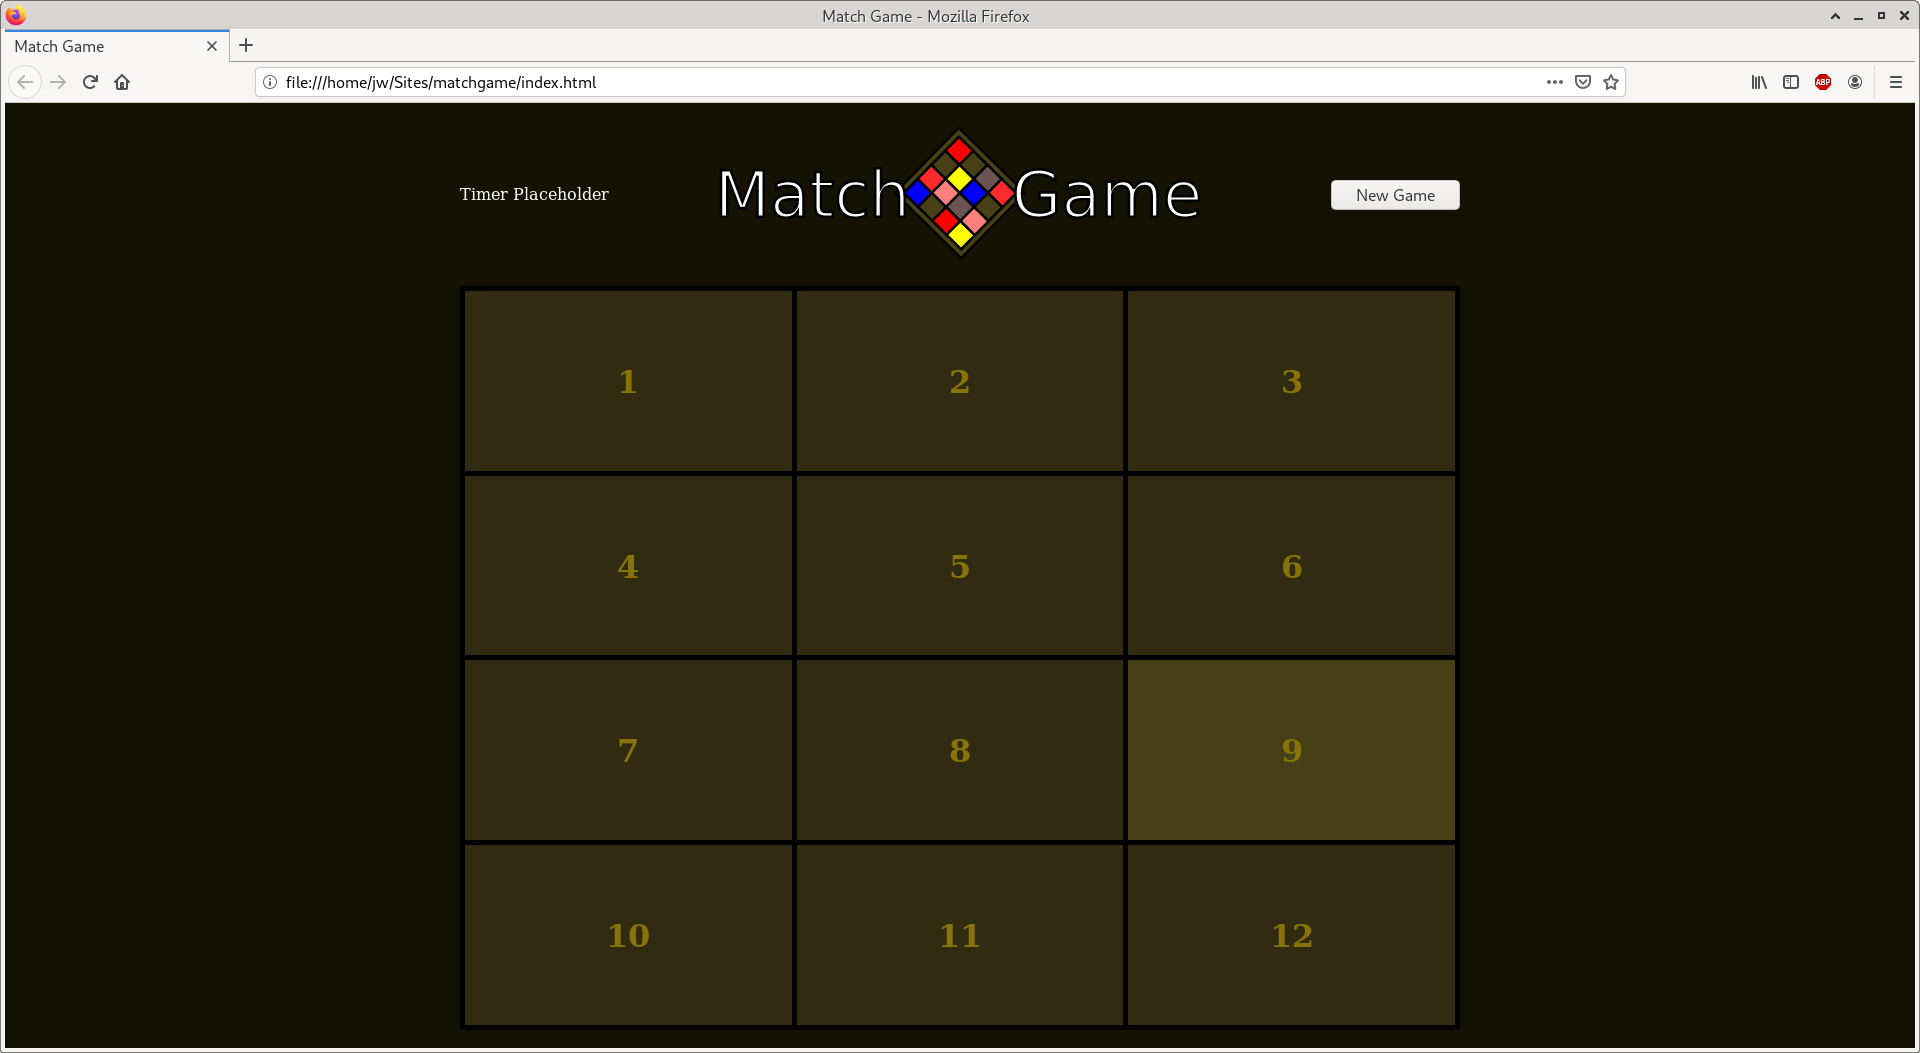
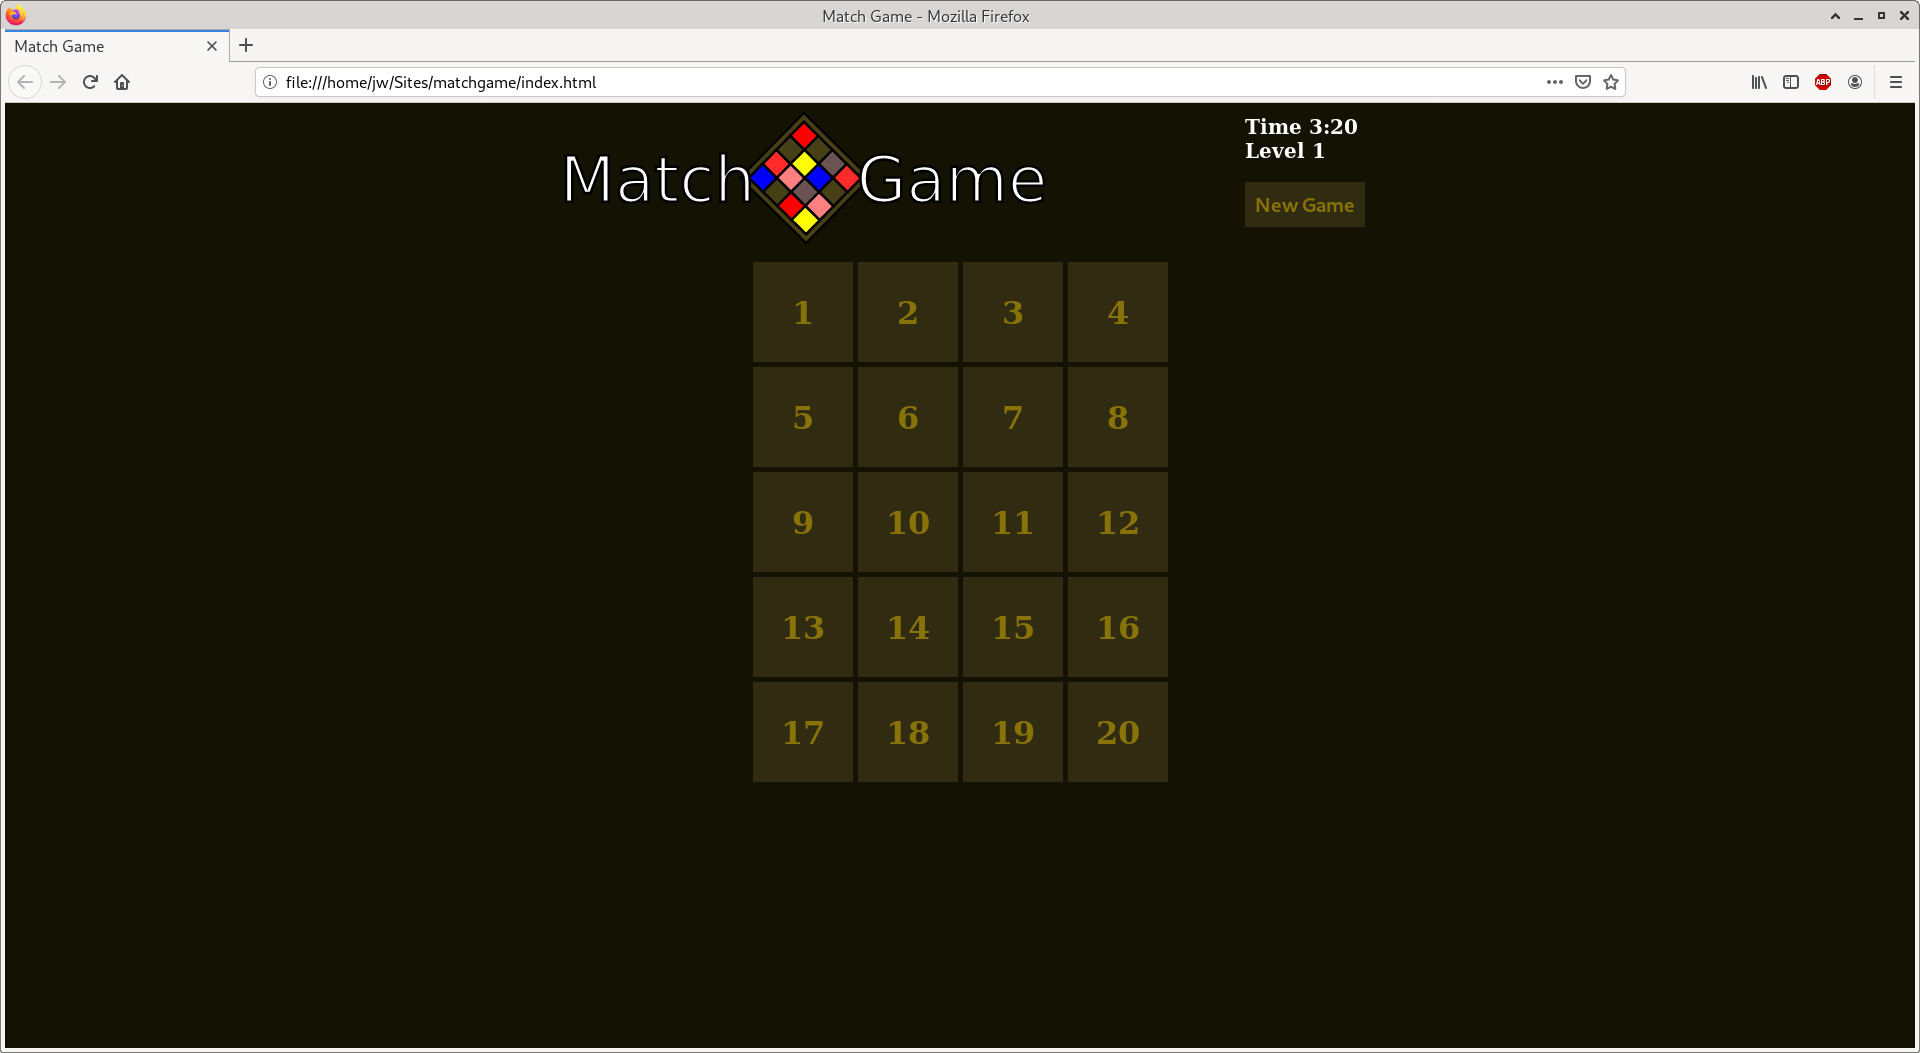
Update to main UI

Changed region(s): [[0.2188, 0.0912, 0.7812, 0.9725]]

diff --git a/index.css b/index.css
@@ -1,10 +1,7 @@
 html {
-    height: 100%;
     background-color: rgb(20, 18, 3);
 }
 body {
-    height: 97%;
-    width: 100%;
     max-width: 1000px;
     margin: 0 auto;
 }
@@ -12,28 +9,37 @@ header {
     display: flex;
     flex-wrap: wrap;
     align-items: center;
-    min-height: 20%;
-    background-color: rgb(20, 18, 3);
+    justify-content: space-around;
+    margin: 0 auto;
 }
-header div {
-    flex: 1;
-    position: relative;
-}
-#timer {
+header span {
     color: white;
+    font-size: 1.25rem;
+    font-weight: bold;
+}
+#newgame {
+    color: rgb(136, 115, 9);
+    background-color: rgb(48, 43, 17);
+    border: none;
+    font-size: 1.25rem;
+    font-weight: bold;
+    padding: 10px;
+}
+#newgame:hover {
+    background-color: rgb(71, 63, 21);
 }
 #board {
     display: grid;
-    grid-template-columns: repeat(3, 1fr);
+    grid-template-columns: repeat(4, 100px);
     gap: 5px;
     padding: 5px;
-    min-height: 80%;
-    background-color: black;
+    margin: 0 auto;
+    justify-content: center;
 }
 #board > div {
     position: relative;
-    min-height: 100px;
-    min-width: 100px;
+    height: 100px;
+    width: 100px;
     background-color: rgb(48, 43, 17);
 }
 #board > div:hover {

diff --git a/index.html b/index.html
@@ -11,8 +11,12 @@
     <header>
         <div><img src='logo.svg'></img></div>
         <div>
-            <span id='timer'>Timer Placeholder</span>
+            <span>Time </span><span id='timer'>3:20</span>
+            <br />
+            <span>Level </span><span id="level">1</span>
+            <br /><br />
             <button id='newgame'>New Game</button>
+            <br /><br />
         </div>
     </header>
     <div id="board">
@@ -28,6 +32,14 @@
         <div><span>10</span></div>
         <div><span>11</span></div>
         <div><span>12</span></div>
+        <div><span>13</span></div>
+        <div><span>14</span></div>
+        <div><span>15</span></div>
+        <div><span>16</span></div>
+        <div><span>17</span></div>
+        <div><span>18</span></div>
+        <div><span>19</span></div>
+        <div><span>20</span></div>
     </div>
 </body>
 </html>

diff --git a/README.md b/README.md
@@ -2,7 +2,7 @@
 
 An experimental game I'm building in vanilla HTML, CSS, and Javascript while learning front end web development. Right now I'm building out the UI before moving on to the programming logic.
 
-The end goal is to have several match game themes to choose from with the option to do a timed match, create levels that become increasingly short in game duration, etc. The first match game I'm working on is to match the logos of several technologies I'm learning or find interesting.
+This match game well have themes to choose from with levels that become increasingly short in game duration. The first match game I'm working on is to match the logos of several technologies I'm learning or find interesting.
 
 If you were to build such a game, what would your favorite theme be?
 
